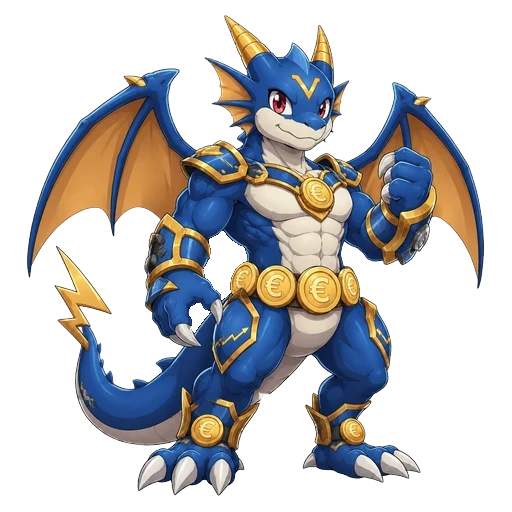
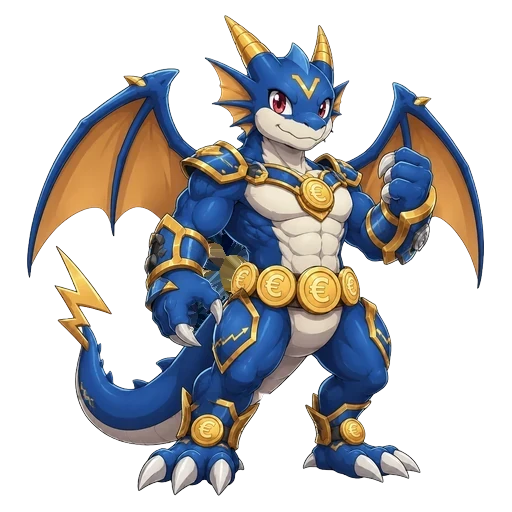
fix(mascot): buracos transparentes no interior (olho preto do Voltix) -> v8
O olho do Voltix (e outras zonas) aparecia com fundo preto: o recorte
automatico tinha comido zonas que deviam ser opacas (branco do olho,
barriga creme, membrana das asas, cara do boss), deixando-as
TRANSPARENTES — o fundo escuro do cartao aparecia atraves e lia-se
como preto. Scan aos 12 webp encontrou buracos interiores em 5:
voltix 3/4/6 e penny 4/5 (os outros 7 estavam limpos).

Correcao cirurgica: cada buraco interior (componente transparente que
nao toca a borda) preenchido com a cor do pixel opaco mais proximo
(distance-transform) + alpha 255 — reconstroi o branco do olho, a
barriga, a membrana. NAO se re-correu nenhum passo automatico de corte
sobre as mascotes (proibido pelo CLAUDE.md); so os buracos foram
tapados, o resto do recorte fica intacto. Re-scan: 12/12 sem buracos.

Cache-bust: MASCOT_ASSET_VER 7->8 + os ?v=7 hardcoded no
LandingMascotShowcase e no rail do LandingHero. As folhas compostas
evolucoes-*.webp tambem tem buracos mas estao orfas (nenhum uso em
src/) — deixadas como estao.

Changed region(s): [[0.375, 0.4375, 0.5, 0.5938], [0.3438, 0.5938, 0.4062, 0.6562]]

diff --git a/src/components/landing/LandingMascotShowcase.tsx b/src/components/landing/LandingMascotShowcase.tsx
@@ -58,7 +58,7 @@ function EvoRow({
             <div key={evo} className="text-center">
               <div className="relative w-full aspect-square bg-gradient-to-b from-white/5 to-transparent rounded-xl flex items-center justify-center border border-white/5 overflow-hidden mb-1.5">
                 <Image
-                  src={`/mascot/${gender}/${evo}.webp?v=7`}
+                  src={`/mascot/${gender}/${evo}.webp?v=8`}
                   alt={t('landing.mascot.evo_alt', { name, evo, label })}
                   width={96}
                   height={96}

diff --git a/src/components/voltix/MascotCreature.tsx b/src/components/voltix/MascotCreature.tsx
@@ -54,7 +54,7 @@ interface Props {
  *  `?v=` is a cache-buster — the mascot WebPs were re-cut (clean alpha, no
  *  white fringe) but keep the same filenames, so browsers/CDN would serve the
  *  stale cached version without it. Bump the number when the art changes. */
-const MASCOT_ASSET_VER = '7'
+const MASCOT_ASSET_VER = '8'
 function assetPath(gender: MascotGender, evo: number): string {
   return `/mascot/${gender}/${evo}.webp?v=${MASCOT_ASSET_VER}`
 }

diff --git a/src/components/landing/LandingHero.tsx b/src/components/landing/LandingHero.tsx
@@ -260,7 +260,7 @@ export async function LandingHero() {
                       }`}
                     >
                       <Image
-                        src={`/mascot/voltix/${n}.webp`}
+                        src={`/mascot/voltix/${n}.webp?v=8`}
                         alt={t('landing.hero.evo_alt', { n })}
                         width={80}
                         height={80}
